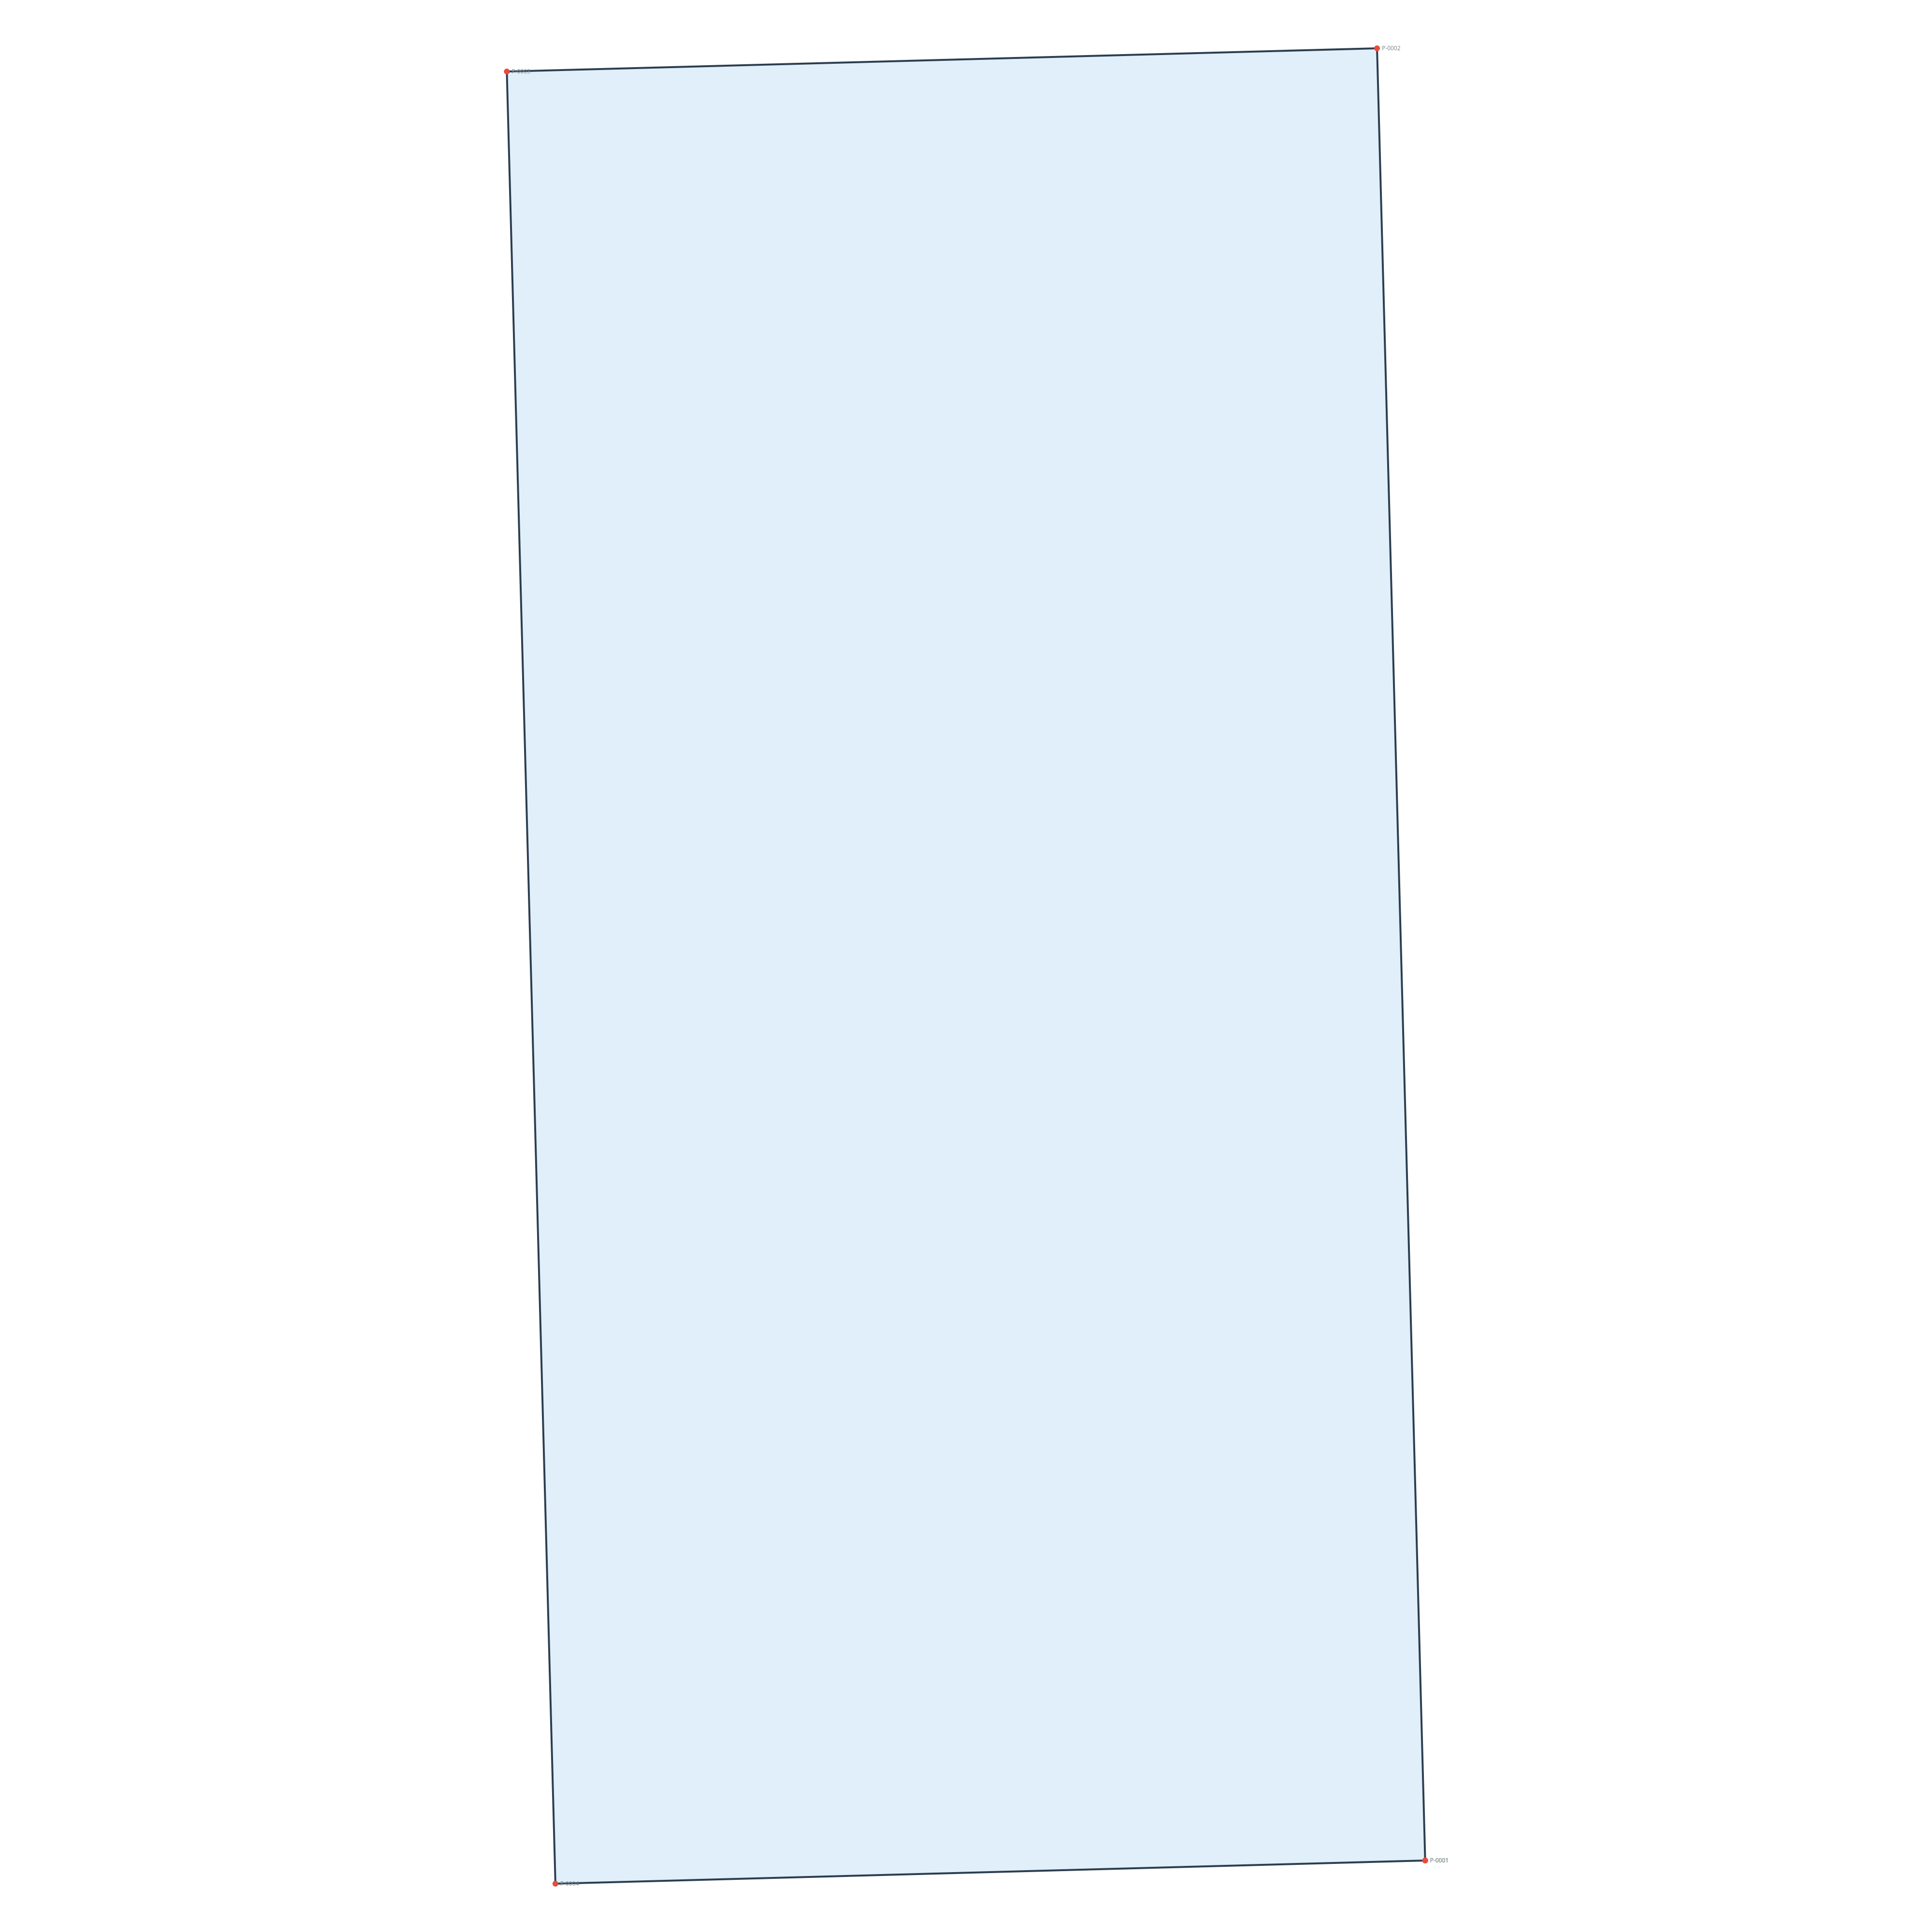
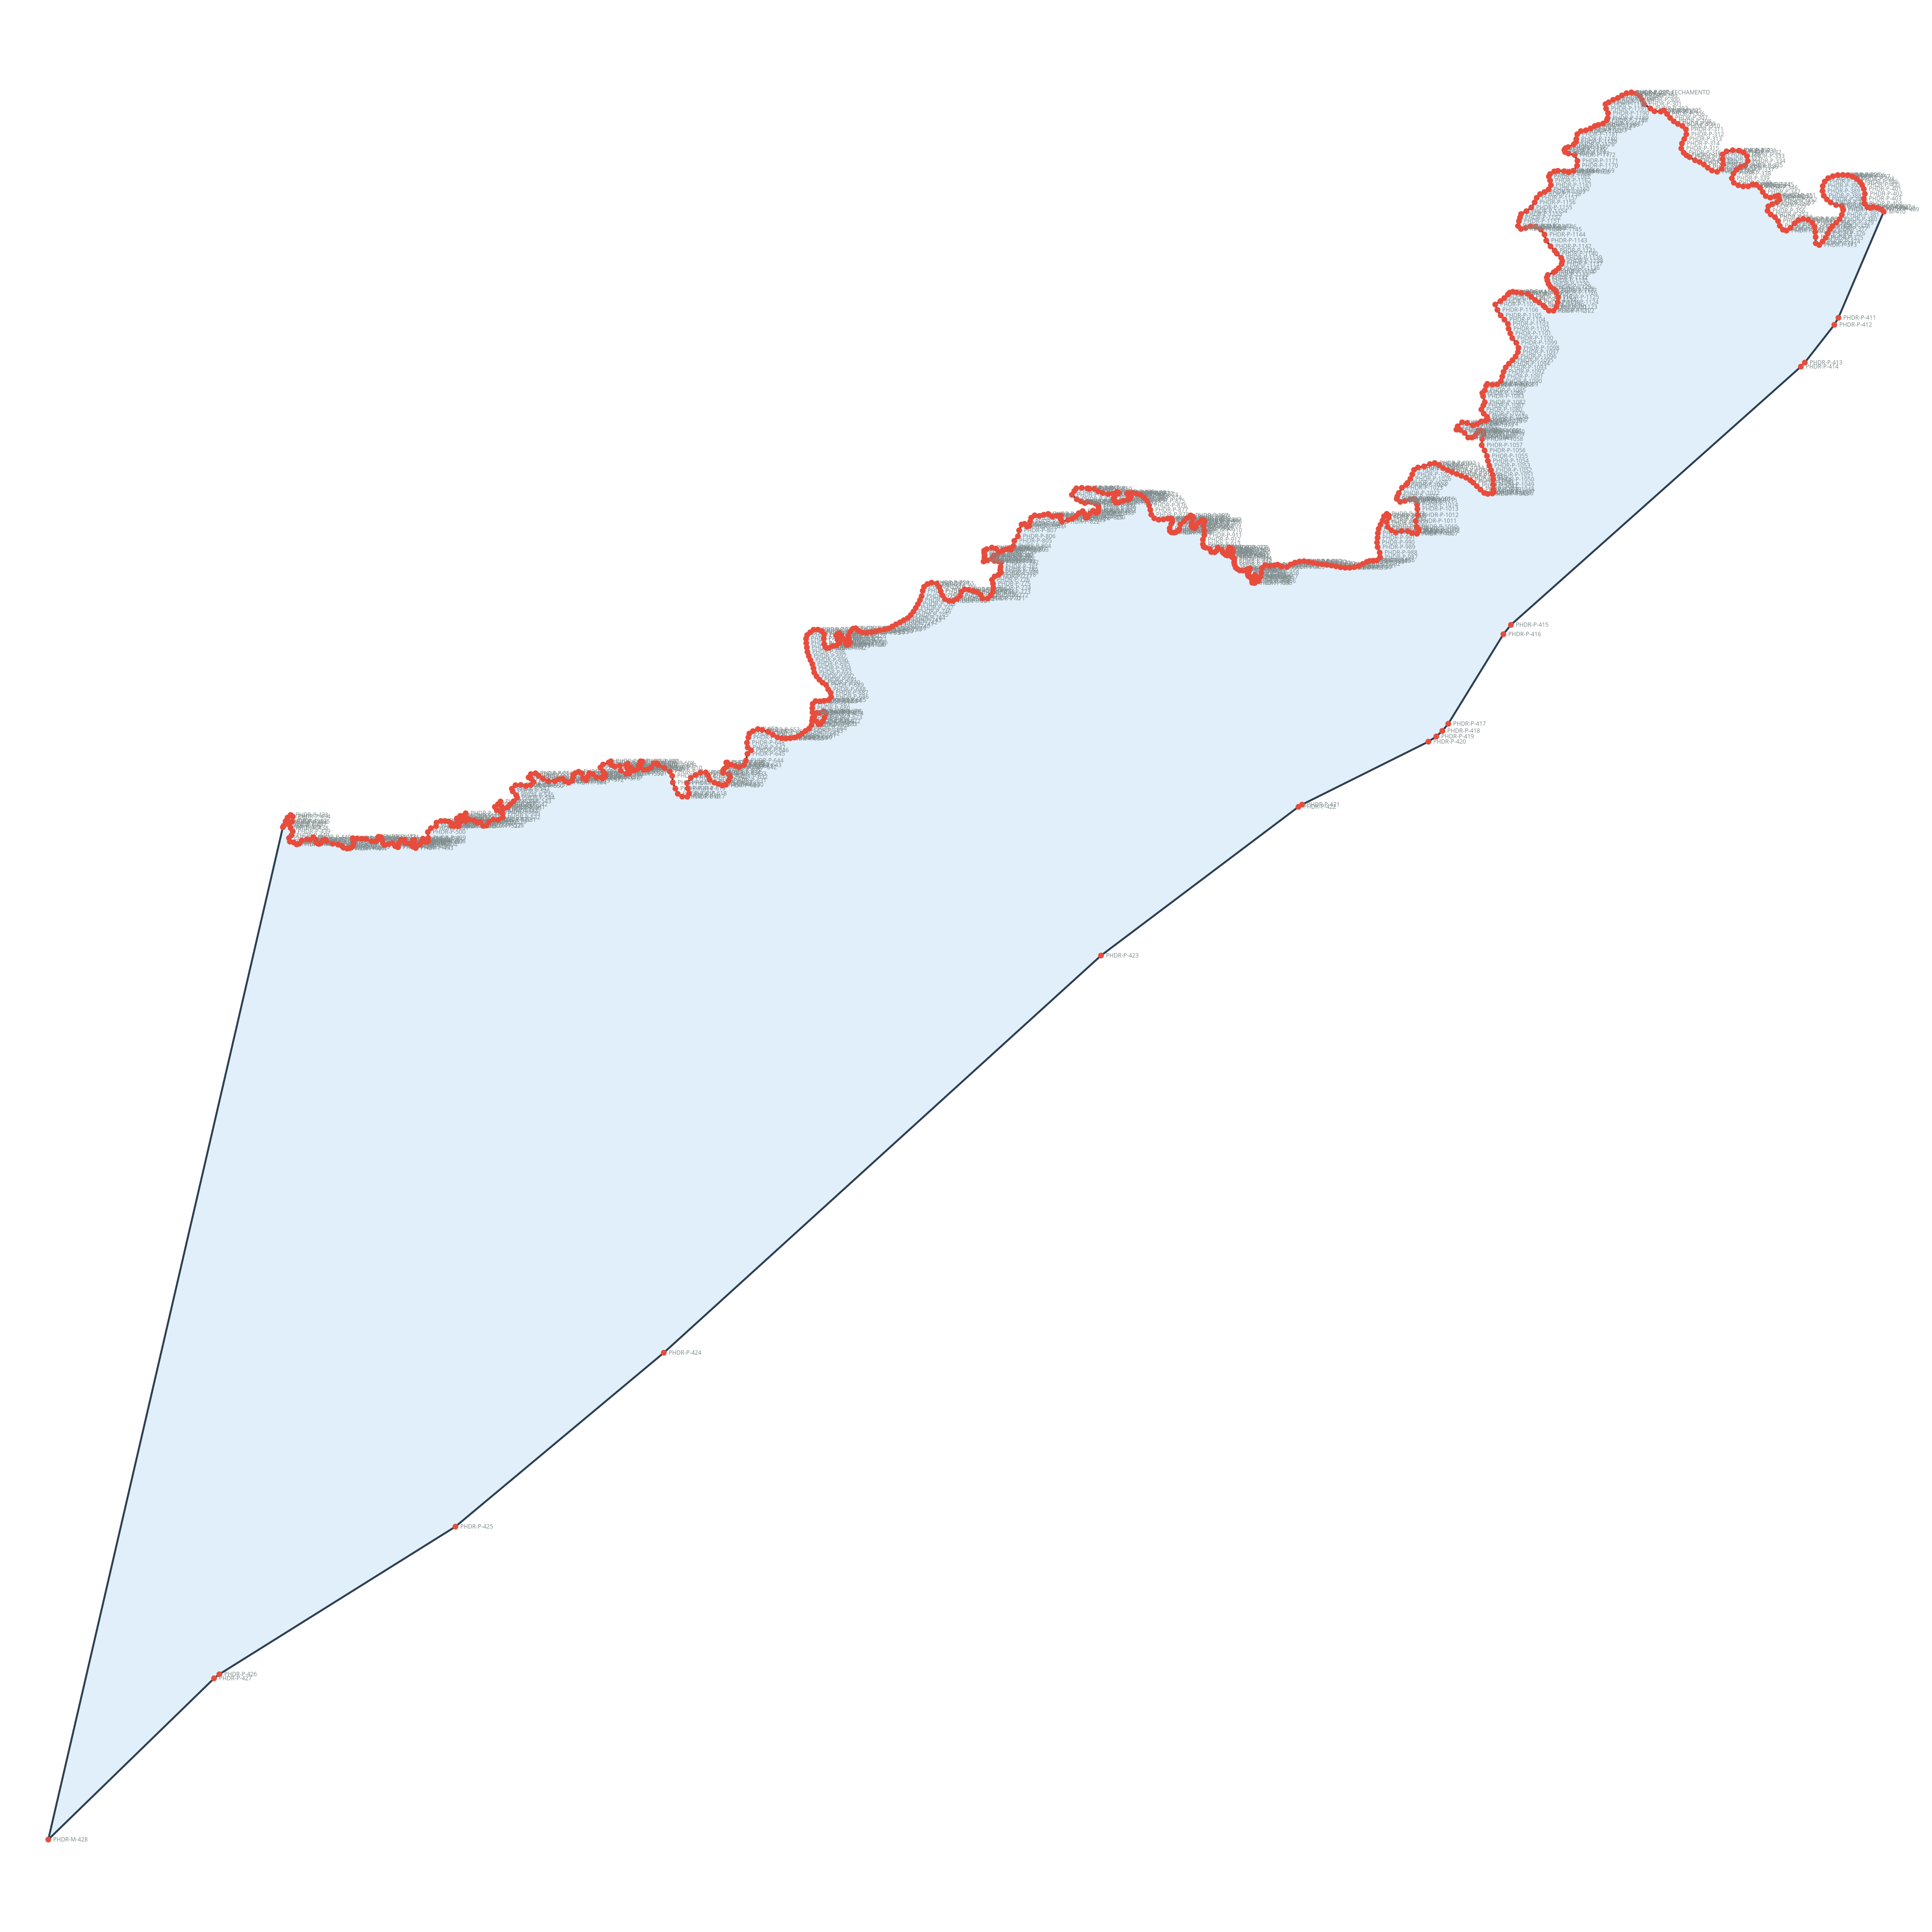
update

diff --git a/src/export/geojsonExporter.js b/src/export/geojsonExporter.js
@@ -21,7 +21,7 @@ export function exportGeoJSON(vertices, outputPath, name = "Imóvel") {
                 properties: {
                     name,
                     verticesCount: vertices.length,
-                    generator: "sigef-pdf-extractor-3d"
+                    generator: "pdf-to-maps"
                 },
                 geometry: {
                     type: "Polygon",

diff --git a/README.md b/README.md
@@ -1,203 +1,231 @@
-# 🗺️ D-H-O-R-A/pdf-to-maps — Geoprocessador SIGEF/INCRA (2D & 3D)
+# pdf-to-maps — Geoprocessador de Memorial Descritivo SIGEF/INCRA (2D & 3D)
 
 [![GitHub License](https://img.shields.io/badge/license-MIT-blue.svg)](LICENSE)
 [![ESModules](https://img.shields.io/badge/js-ESM-yellow.svg)](package.json)
 [![Author](https://img.shields.io/badge/author-Diego%20Oris-orange.svg)](#)
 
-Um pipeline open-source profissional e de altíssima performance em Node.js (ESM) desenvolvido por **Diego Oris** para extrair, processar, projetar, validar e renderizar memoriais descritivos georreferenciados no padrão **INCRA/SIGEF** em mapas **2D e 3D**.
+Biblioteca e pipeline em Node.js (ESM) desenvolvida por **Diego Oris** para extração, validação, projeção geodésica e renderização gráfica bidimensional (2D) e tridimensional isométrica (3D) de polígonos territoriais a partir de memoriais descritivos georreferenciados no padrão **SIGEF/INCRA**.
 
-O sistema funciona de forma **100% offline, determinística e local**, eliminando qualquer dependência de ferramentas externas ou conexões de rede.
+A ferramenta opera de forma **100% offline e determinística**. Não utiliza APIs externas, inteligência artificial ou processamento em nuvem, garantindo segurança jurídica absoluta sobre dados de propriedades e contratos confidenciais.
 
 ---
 
-## 📸 Demonstração dos Mapas Gerados
+## 📸 Demonstração Gráfica de Saída
 
-Aqui estão os mapas gerados automaticamente a partir do arquivo de memorial descritivo padrão SIGEF:
+Abaixo estão os mapas gerados de forma puramente matemática a partir do arquivo de memorial descritivo padrão:
 
-### 📐 Mapa 2D de Alta Resolução (PNG & SVG)
-O mapa bidimensional preserva com perfeição matemática todas as proporções e escala territorial, contendo grades de eixos métricos e rótulos de vértices.
+### 📐 Mapa 2D com Grade de Coordenadas e Escala Plana
+Projeção cartográfica plana com cálculo de padding, escala uniforme para preservar proporção territorial, grade de eixos métricos (UTM) e identificadores de cada vértice.
 ![Mapa 2D de Exemplo](assets/mapa_exemplo_2d.png)
 
-### ⛰️ Mapa 3D Isométrico com Extrusão Volumétrica e Shading de Luz Solar
-Renderização isométrica com cálculo de projeção matemática tridimensional, sombreamento difuso automático com base na orientação das paredes (vetor normal) e contornos em estilo neon brilhante.
+### ⛰️ Mapa 3D Isométrico com Extrusão Volumétrica e Sombreamento Realista
+Bloco tridimensional calculado por rotação matricial trigonométrica, com sombreamento lateral difuso baseado no produto escalar entre a normal da face e o vetor solar, com contornos realçados.
 ![Mapa 3D de Exemplo](assets/mapa_exemplo_3d.png)
 
 ---
 
-## 🧮 Modelagem Matemática e Engenharia Cartográfica
+## 🧮 Fundamentação Matemática e Cartográfica
 
-O pipeline é puramente matemático. Abaixo estão detalhadas todas as equações que sustentam o processamento físico e visual:
+Toda a precisão do pipeline é garantida por modelagem matemática explícita descrita abaixo:
 
-### 1. Conversão DMS (Graus, Minutos e Segundos) para Graus Decimais (DD)
-Cada coordenada esférica extraída em formato sexagesimal $[D^\circ\ M'\ S'']$ é convertida para decimal real através da equação de frações temporais:
+### 1. Conversão DMS para Graus Decimais (DD)
+As coordenadas de latitude e longitude extraídas dos arquivos PDF no formato sexagesimal (Graus, Minutos e Segundos - DMS) são convertidas para decimais reais através da fórmula:
 
-$$DD = \left( |D| + \frac{M}{60} + \frac{S}{3600} \right) \cdot \text{sgn}(D)$$
+$$DD = \text{sgn}(D) \cdot \left( |D| + \frac{M}{60} + \frac{S}{3600} \right)$$
 
-Onde $\text{sgn}(D) = -1$ se a coordenada representar o hemisfério Oeste (Longitude) ou Sul (Latitude), indicado pelo sinal negativo ou letra correspondente.
+Onde:
+- $D$: Graus inteiros extraídos.
+- $M$: Minutos inteiros.
+- $S$: Segundos decimais (precisão flutuante).
+- $\text{sgn}(D)$: Função sinal. Se o caractere de direção for `S` (Sul) ou `W`/`O` (Oeste), ou se houver um caractere `-` explícito, $\text{sgn}(D) = -1$, caso contrário $+1$.
 
-### 2. Cálculo Dinâmico do Fuso (Zone) e Hemisfério UTM
-A projeção para a malha cilíndrica transversal de Mercator (UTM) requer a identificação do fuso de amplitude de $6^\circ$ correspondente. Com base na longitude decimal ($\lambda$), calculamos o fuso pela fórmula:
+O analisador regex faz a higienização de separadores como `°`, `'`, `"`, `”`, `,` ou `.`, unificando a leitura de strings complexas como `-04° 44' 00,00"` ou `04 44 00.00`.
 
-$$\text{Zone} = \left\lfloor \frac{\lambda + 180}{6} \right\rfloor + 1$$
+### 2. Determinação Dinâmica do Fuso e Hemisfério UTM
+A projeção para a grade de coordenadas planas (metros) exige determinar em qual fuso da projeção Transversa de Mercator a coordenada de longitude ($\lambda$) reside:
 
-O hemisfério determina se a origem vertical sofrerá o deslocamento padrão de falsa coordenada Norte (Falsa Latitude) de $10.000.000\text{ m}$ (Hemisfério Sul):
+$$\text{Fuso} = \left\lfloor \frac{\lambda + 180}{6} \right\rfloor + 1$$
 
-$$\text{Falsa Latitude} = \begin{cases} 10.000.000 & \text{se } \phi < 0 \text{ (Sul)} \\ 0 & \text{se } \phi \geq 0 \text{ (Norte)} \end{cases}$$
+O hemisfério rege o deslocamento da coordenada vertical para evitar valores negativos de latitude (Falsa Latitude) no Hemisfério Sul ($\phi < 0$):
 
-*(Para a área de teste no Amazonas, com Longitude $\lambda \approx -61.3^\circ$, a equação resulta na zona **20S**, utilizando o elipsoide **GRS80/SIRGAS2000**).*
+$$\text{Norte}_{\text{falso}} = \begin{cases} 10.000.000\text{ m} & \text{se } \phi < 0 \\ 0\text{ m} & \text{se } \phi \geq 0 \end{cases}$$
 
----
+O sistema projeta os pontos utilizando as equações do elipsoide **GRS80/SIRGAS2000** (parâmetros idênticos ao WGS84, padrão legal de cartografia brasileira) via biblioteca `proj4`.
 
-### 3. Projeção Bidimensional Plana no Canvas (2D)
-Para desenhar o imóvel em um canvas plano de dimensão $W \times H$ (ex: $4000 \times 4000\text{ px}$) sem distorcer o relevo, computamos um fator de escala uniforme $S$ com uma margem de segurança $P$ (Padding):
+### 3. Ajuste de Escala e Aspecto Plano (Canvas 2D)
+Para desenhar o polígono geográfico em um canvas plano quadrado de largura $W$ e altura $H$ (ex: $4000 \times 4000\text{ px}$) sem distorcer o relevo do imóvel (aspecto 1:1 real), calculamos um fator de escala uniforme $S$ considerando uma margem de segurança (padding $P$):
 
 $$S = \min\left( \frac{W - 2P}{X_{\max} - X_{\min}}, \frac{H - 2P}{Y_{\max} - Y_{\min}} \right)$$
 
-As coordenadas projetadas na tela $(u, v)$ com inversão do eixo vertical do Canvas são:
+As posições finais na tela $(u, v)$ são transladadas e espelhadas verticalmente (devido à origem do sistema de coordenadas do canvas computacional estar no canto superior esquerdo):
 
-$$u = P + (X - X_{\min}) \cdot S + \delta_x$$
+$$u = P + (X - X_{\min}) \cdot S + \frac{(W - 2P) - (X_{\max} - X_{\min}) \cdot S}{2}$$
 
-$$v = P + (Y_{\max} - Y) \cdot S + \delta_y$$
+$$v = P + (Y_{\max} - Y) \cdot S + \frac{(H - 2P) - (Y_{\max} - Y_{\min}) \cdot S}{2}$$
 
-Onde as compensações de centralização $\delta_x$ e $\delta_y$ para garantir alinhamento perfeito são dadas por:
+### 4. Rotação e Projeção Isométrica Tridimensional (3D)
+Para gerar a volumetria 3D, transladamos o polígono métrico UTM para uma origem local $[-1000, 1000]$ eliminando ruídos numéricos. Em seguida, aplicamos uma rotação tridimensional de guinada (yaw $\theta = -45^\circ$) sobre o eixo $Z$ e inclinação de arfagem (pitch $\phi = 35.264^\circ$, onde $\sin(\phi) = 1/\sqrt{3}$) para gerar a projeção isométrica padrão:
 
-$$\delta_x = \frac{(W - 2P) - (X_{\max} - X_{\min}) \cdot S}{2}$$
+1. **Rotação Trigonométrica**:
+   $$x_{\text{rot}} = x' \cdot \cos(-45^\circ) - y' \cdot \sin(-45^\circ) = \frac{\sqrt{2}}{2} \cdot (x' + y')$$
+   $$y_{\text{rot}} = x' \cdot \sin(-45^\circ) + y' \cdot \cos(-45^\circ) = \frac{\sqrt{2}}{2} \cdot (-x' + y')$$
 
-$$\delta_y = \frac{(H - 2P) - (Y_{\max} - Y_{\min}) \cdot S}{2}$$
+2. **Projeção Isométrica com Cota Altimétrica ($z$)**:
+   $$u_{3D} = u_{\text{centro}} + x_{\text{rot}} \cdot S_{3D}$$
+   $$v_{3D} = v_{\text{centro}} + y_{\text{rot}} \cdot \sin(35.264^\circ) \cdot S_{3D} - z$$
 
----
+Onde:
+- $x', y'$ são as coordenadas UTM locais transladadas.
+- $S_{3D}$ é o fator de escala calculado para o encaixe tridimensional.
+- $z$ é a altura física da extrusão (base do terreno $z = 0$ ou topo do terreno $z = 350\text{ px}$).
 
-### 4. Projeção Isométrica Tridimensional (3D)
-Para a perspectiva isométrica tridimensional em que representamos o vetor espacial $[X, Y, Z]^T$ na tela bidimensional $[u, v]^T$, o pipeline aplica uma rotação de guinada (Yaw $\theta = -45^\circ$) sobre o eixo Z e uma inclinação de arfagem (Pitch $\phi \approx 35.264^\circ$ ou $\sin(\phi) = 1/\sqrt{3}$):
+### 5. Sombreamento de Faces por Produto Escalar Vetorial (Diffuse Shading)
+Para renderizar profundidade volumétrica nas paredes laterais da extrusão geográfica, calculamos a incidência de luz solar artificial utilizando o produto escalar ($\cdot$) de vetores:
 
-1. **Rotação do Plano (Yaw)**:
-   $$X_{\text{rot}} = X' \cdot \cos(\theta) - Y' \cdot \sin(\theta)$$
-   $$Y_{\text{rot}} = X' \cdot \sin(\theta) + Y' \cdot \cos(\theta)$$
-   *(Onde $X'$ e $Y'$ são os metros UTM normalizados no intervalo $[-1000, 1000]$ para manter precisão de ponto flutuante).*
+1. **Vetor Normal à Parede ($\vec{N}$)** para um segmento entre o vértice $i$ e $i+1$:
+   $$\vec{N} = \left[ -\frac{Y_{i+1} - Y_i}{d}, \frac{X_{i+1} - X_i}{d} \right]^T$$
+   Onde $d = \sqrt{(X_{i+1} - X_i)^2 + (Y_{i+1} - Y_i)^2}$ é a distância em metros da aresta plana.
 
-2. **Projeção de Tela (Pitch + Altura)**:
-   $$u = u_{\text{centro}} + X_{\text{rot}} \cdot S_{3D}$$
-   $$v = v_{\text{centro}} + Y_{\text{rot}} \cdot \sin(\phi) \cdot S_{3D} - z$$
-   *(Onde $z$ é a cota altimétrica de extrusão: $z = 0$ para a base do bloco geográfico e $z = 350\text{ px}$ para a superfície do terreno).*
+2. **Produto Escalar com o Vetor de Luz ($\vec{L}$)**:
+   Definimos o vetor de luz solar vindo do quadrante superior esquerdo como $\vec{L} = [-0.707, 0.707]^T$. O fator de iluminação $k_d$ é calculado por:
+   $$k_d = \vec{N} \cdot \vec{L} = N_x \cdot (-0.707) + N_y \cdot 0.707$$
 
----
-
-### 5. Sombreamento de Paredes por Vetores Normais (3D Diffuse Shading)
-Para criar profundidade volumétrica e realismo nas faces laterais, calculamos a iluminação difusa baseado no produto escalar ($\cdot$) entre o vetor normal unitário da parede horizontal ($\vec{N}$) e o vetor direcional da luz solar artificial ($\vec{L} = [-0.707, 0.707]^T$ que simula o Sol vindo do canto superior esquerdo):
-
-1. **Vetor Normal Unitário $\vec{N}$ da Parede** entre o vértice $i$ e $i+1$:
-   $$\vec{N} = (N_x, N_y) = \left( \frac{-(Y_{i+1} - Y_i)}{L_{\text{seg}}}, \frac{X_{i+1} - X_i}{L_{\text{seg}}} \right)$$
-   Onde $L_{\text{seg}} = \sqrt{(X_{i+1}-X_i)^2 + (Y_{i+1}-Y_i)^2}$ é a extensão da aresta.
-
-2. **Fator de Sombreamento (Dot Product)**:
-   $$\text{shading} = \vec{N} \cdot \vec{L} = N_x \cdot (-0.707) + N_y \cdot 0.707$$
-
-3. **Mapeamento de Luminosidade HSL**:
-   Convertemos o produto escalar no intervalo $[-1.0, 1.0]$ para o canal de luminosidade de cor HSL entre $35\%$ e $100\%$:
-   $$\text{Luminance} = 35\% + (\text{shading} + 1.0) \cdot 32.5\%$$
-   Este algoritmo faz com que as paredes voltadas para o sol fiquem brilhantes, enquanto as paredes opostas caiam em sombras realistas.
+3. **Mapeamento para Luminosidade HSL**:
+   Mapeamos $k_d \in [-1.0, 1.0]$ linearmente para a luminosidade real do canal HSL entre $35\%$ (sombra total) e $100\%$ (iluminação perpendicular total):
+   $$\text{Luminosity} = 35\% + (k_d + 1.0) \cdot 32.5\%$$
 
 ---
 
-### 6. Cálculos Geodésicos de Precisão Real (Turf.js)
-Os cálculos de área e perímetro de precisão do memorial descritivo utilizam as equações geodésicas do modelo de elipsoide **GRS80 (SIRGAS2000)** sobre a curvatura real da Terra, integrando as coordenadas por aproximação geodésica:
-- **Área**: Calculada aplicando o Teorema de Green adaptado para geometria esférica terrestre.
-- **Perímetro**: Soma das distâncias ortodrômicas (Great-Circle / Geodesic lines) calculadas através da equação de Haversine ou curvas geodésicas de Karney.
-
----
-
-## 📁 Estrutura de Diretórios
+## 📁 Estrutura do Repositório
 
 ```
-maps/
-├── assets/                      # Imagens de demonstração dos mapas (2D/3D)
-├── create_example.js            # Criador offline do PDF de testes padrão SIGEF
-├── index.js                     # Entrada principal do processador
-├── package.json                 # Metadados e dependências do projeto
-├── package-lock.json            # Lock de dependências
-├── .gitignore                   # Arquivos ignorados (protege PDFs de contratos reais)
-├── LICENSE                      # Licença MIT assignada a Diego Oris
-└── src/                         # Código-fonte principal do geoprocessador
-    ├── index.js                 # Coordenador principal do pipeline e filas
+pdf-to-maps/
+├── assets/                      # Renders públicos de mapas para demonstração
+├── create_example.js            # Script offline para gerar PDF SIGEF de teste
+├── index.js                     # Ponto de entrada / importação ESModules
+├── package.json                 # Metadados, dependências e autoria de Diego Oris
+├── package-lock.json            # Travamento de versões npm
+├── .gitignore                   # Blindagem de PDFs confidenciais e exceções de testes
+├── LICENSE                      # Licença open-source MIT
+└── src/                         # Código-fonte principal da aplicação
+    ├── index.js                 # Coordenador principal de arquivos e concorrência
     ├── parser/
-    │   ├── pdfReader.js         # Leitor layout-aware Y-coordinate / X-coordinate
-    │   └── vertexExtractor.js   # Extrator regex DMS estrito de vértices
+    │   ├── pdfReader.js         # Leitor espacial de posições geométricas de texto PDF
+    │   └── vertexExtractor.js   # Extrator regex estrito de strings de vértice DMS
     ├── projection/
-    │   └── utmProjector.js      # Detector de zona e projetor métrico Proj4
+    │   └── utmProjector.js      # Projetor de coordenadas geodésicas para metros UTM
     ├── draw/
-    │   ├── mapRenderer.js       # Renderizador de imagem de mapa 2D (Canvas)
-    │   └── mapRenderer3D.js     # Renderizador de imagem de mapa 3D (Canvas)
+    │   ├── mapRenderer.js       # Renderizador de imagem de mapa 2D plana (Canvas)
+    │   └── mapRenderer3D.js     # Renderizador de imagem de mapa 3D isométrico (Canvas)
     ├── export/
-    │   ├── geojsonExporter.js   # Exportador GIS GeoJSON fechado
-    │   ├── dxfExporter.js       # Exportador CAD DXF (POLYLINE R12)
-    │   ├── svgExporter.js       # Exportador vetorial SVG de alta resolução
-    │   └── logExporter.js       # Calculador Turf e gerador de log técnico
+    │   ├── geojsonExporter.js   # Exportador de arquivo vetorial GIS padrão OGC GeoJSON
+    │   ├── dxfExporter.js       # Exportador CAD padrão AutoCAD DXF POLYLINE (R12)
+    │   ├── svgExporter.js       # Exportador vetorial puro de alta definição SVG
+    │   └── logExporter.js       # Calculador Turf e gerador de relatório técnico (TXT)
     └── utils/
-        └── helper.js            # Utilitários cartográficos e matemáticos
+        └── helper.js            # Conversor DMS e gerenciador de diretórios
 ```
 
 ---
 
-## 🔒 Proteção de Dados e Arquivos Confidenciais (`.gitignore`)
+## 🔒 Proteção Contra Vazamento de Dados
 
-Por se tratar de uma ferramenta profissional, muitos arquivos PDFs processados contêm **contratos reais confidenciais** e dados protegidos por LGPD que não devem, sob nenhuma hipótese, subir para repositórios públicos.
+Os memoriais descritivos reais e contratos de imóveis rurais contém dados confidenciais e proprietários de alta criticidade protegidos por termos de sigilo e LGPD. 
 
-Para garantir isso, o arquivo [`.gitignore`](.gitignore) está pré-configurado com regras de exclusão globais:
+Para eliminar qualquer chance de commits acidentais de arquivos privados para repositórios públicos no GitHub, o arquivo [`.gitignore`](.gitignore) vem configurado de fábrica bloqueando de forma absoluta qualquer arquivo PDF na pasta de processamento, abrindo uma exceção estrita apenas para o PDF público gerado para testes:
 
 ```gitignore
 # PDFs de memoriais/contratos (confidenciais)
 *.pdf
+!exemplo_sigef.pdf
 ```
 
-Dessa forma, qualquer documento real que você soltar no diretório para ser processado estará **100% blindado contra commits acidentais**.
+Você pode processar centenas de PDFs confidenciais localmente com segurança absoluta: apenas o arquivo `exemplo_sigef.pdf` poderá ser comitado.
 
 ---
 
-## 🛠️ Instalação e Execução
+## 🛠️ Instalação e Requisitos
 
 ### Pré-requisitos
 - **Node.js** v18 ou superior.
 
-### Passo 1: Instalar as Dependências
-Abra o terminal no diretório do projeto e instale os pacotes necessários:
+### Instalação de Dependências
+Navegue até a pasta do projeto e instale as dependências nativas utilizando:
 ```bash
 npm install
 ```
 
-As principais bibliotecas instaladas são:
-- `@turf/turf`: Geoprocessamento geodésico de precisão real.
-- `canvas`: Manipulação e renderização nativa de imagens de alta definição.
-- `pdfjs-dist`: Parser robusto de vetores de PDF.
-- `proj4`: Transformações de coordenadas espaciais geodésicas.
-- `pdf-lib`: Utilitário para gerar PDFs de demonstração com fontes vetoriais.
+As principais bibliotecas integradas ao geoprocessador são:
+- `canvas`: Biblioteca nativa C++ integrada para renderização bitmap 2D/3D ultrarápida.
+- `@turf/turf`: Motor matemático de geoprocessamento espacial geodésico sobre o elipsoide terrestre.
+- `pdfjs-dist`: Analisador de vetores gráficos e metadados de texto para mapeamento de layout.
+- `proj4`: Transformador de grades espaciais geodésicas e de cartografia.
+- `pdf-lib`: Criador vetorial de documentos PDF de demonstração.
 
 ---
 
-### Passo 2: Criar o PDF de Demonstração (Livre de Dados Reais)
-Para testar a ferramenta sem expor dados reais, execute o utilitário que gera um arquivo PDF georreferenciado fictício chamado `exemplo_sigef.pdf` com 4 vértices fechando um polígono perfeito na região Norte:
+## 🚀 Como Executar
+
+### Passo 1: Criar o PDF de Testes Padrão
+Gere o arquivo `exemplo_sigef.pdf` contendo 4 vértices fechando um imóvel na região Norte (Coari - Amazonas) sem expor dados confidenciais:
 ```bash
 node create_example.js
 ```
 
-### Passo 3: Executar a Extração e Geração de Mapas
-Com os arquivos PDF de memorial presentes no diretório, execute o pipeline principal:
+### Passo 2: Executar o Processador Principal
+Para ler todos os memoriais descritivos presentes na pasta de mapas, execute:
 ```bash
 node index.js
 ```
 
-Após o processamento concluído (geralmente levando menos de **1.5s** por arquivo), você encontrará todos os resultados gerados na pasta `./output/[NOME_DO_PDF]/`:
-- `mapa.png`: Imagem 2D do mapa de alta resolução (4000x4000px).
-- `mapa_3d.png`: Imagem 3D isométrica com relevo e sombreamento solar.
-- `mapa.svg`: Vetor escalável de alta definição.
-- `mapa.geojson`: Arquivo geográfico OGC RFC 7946 ideal para GIS.
-- `mapa.dxf`: Desenho industrial AutoCAD em metros escala 1:1.
-- `vertices.json`: Lista estruturada JSON dos vértices e coordenadas.
-- `log.txt`: Relatório de valorações topográficas com cálculos do Turf.js.
+Se desejar ler uma pasta externa específica, basta passá-la como argumento:
+```bash
+node index.js /caminho/da/sua/pasta/com/pdfs
+```
+
+### Passo 3: Analisar os Resultados
+O sistema gerará instantaneamente uma subpasta para cada PDF processado dentro do diretório `./output/[NOME_DO_PDF]/`:
+- **`vertices.json`**: Os pontos geométricos indexados.
+- **`mapa.png`**: Mapa 2D em alta resolução ($4000 \times 4000\text{ px}$).
+- **`mapa_3d.png`**: Bloco isométrico volumétrico 3D.
+- **`mapa.svg`**: Geometria vetorial escalável para web.
+- **`mapa.geojson`**: Feição geográfica fechada para importar no QGIS ou Google Earth.
+- **`mapa.dxf`**: Arquivo CAD estruturado em escala 1:1 métrica para agrimensores.
+- **`log.txt`**: Relatório técnico com cálculo geodésico da área (hectares e $m^2$) e perímetro via Turf.js.
 
 ---
 
-## 📄 Licença e Direitos Autorais
+## 💻 Integração Programática (API de Exemplo)
 
-Este projeto é disponibilizado sob a licença open-source MIT. 
+Se você estiver desenvolvendo um sistema integrador, pode carregar os submódulos da biblioteca individualmente em qualquer arquivo JavaScript (ESM):
 
-Desenvolvido inteiramente por **Diego Oris**. Sinta-se livre para utilizar, customizar, integrar e distribuir!
+```javascript
+import { readPDFAndReconstructLines } from "./src/parser/pdfReader.js";
+import { extractVerticesFromReconstructedLines } from "./src/parser/vertexExtractor.js";
+import { projectVerticesToUTM } from "./src/projection/utmProjector.js";
+import { validateAndClosePolygon } from "./src/index.js";
+
+async function extrairDados(pdfPath) {
+    // 1. Extrai o texto organizando-o por coordenadas Y e X
+    const lines = await readPDFAndReconstructLines(pdfPath);
+    
+    // 2. Extrai os vértices através de regex decimal e DMS
+    const rawVertices = extractVerticesFromReconstructedLines(lines);
+    
+    // 3. Valida a topologia geométrica e garante fechamento de anel
+    const validVertices = validateAndClosePolygon(rawVertices);
+    
+    // 4. Projeta para metros UTM SIRGAS2000
+    const { projectedVertices, zone, isSouth } = projectVerticesToUTM(validVertices);
+    
+    console.log(`Vértices Georreferenciados na Zona ${zone}${isSouth ? "S" : "N"}:`, projectedVertices);
+}
+```
+
+---
+
+## 📄 Termos de Licença e Créditos
+
+Este projeto é um software livre de distribuição pública licenciado sob os termos da **Licença MIT**.
+
+Desenvolvido inteiramente por **Diego Oris**. Todos os direitos autorais reservados. Sinta-se livre para integrar em ferramentas comerciais, customizar e estender!